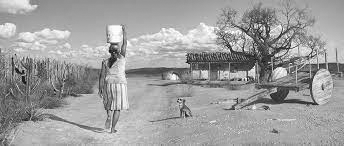
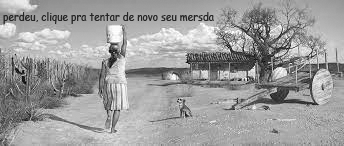
melhorias

Changed region(s): [[0.0, 0.0822, 0.6395, 0.1644]]

diff --git a/script.js b/script.js
@@ -14,13 +14,51 @@ audioRaf.volume = 0.2;
 const backgroundImage = PIXI.Sprite.from("bahiafundo.png");
 const backgroundWin = PIXI.Sprite.from("juliette.png");
 const derrota = PIXI.Sprite.from("baianinhoperdeu.png");
-const derrotaBackground = PIXI.Sprite.from("bahiafundoderrota.png")
+const derrotaBackground = PIXI.Sprite.from("bahiafundoderrota.png");
+const startScreenImg = PIXI.Sprite.from("startscreen.png");
+const botaoStart = PIXI.Sprite.from("botao.png");
+
+const startScreen = new PIXI.Application({
+  width: 1000,
+  height: 400,
+});
+
+document.body.appendChild(startScreen.view);
+startScreen.stage.addChild(startScreenImg);
+startScreenImg.width = 1000;
+startScreenImg.height = 400;
+startScreen.stage.addChild(botaoStart);
+botaoStart.width = 200;
+botaoStart.height = 50;
+botaoStart.x = 100;
+botaoStart.y = 250;
+
+botaoStart.interactive = true;
+botaoStart.buttonMode = true;
+botaoStart.on('pointerdown', playGame);
 
 const app = new PIXI.Application({
   width: 1000,
   height: 400,
 });
-document.body.appendChild(app.view);
+
+function playGame(){
+  const hearts = document.getElementsByClassName("heart");
+  if(hearts.length < 1){
+    window.location.reload();
+    audioRaf.play();
+    return;
+  }
+  document.getElementById("hearts").style.visibility = "visible";
+  document.body.appendChild(app.view);
+  app.x = startScreen.x;
+  app.y = startScreen.y;
+  app.width = startScreen.width;
+  app.height = startScreen.height;
+  document.body.removeChild(startScreen.view);
+  audioRaf.play();
+  app.ticker.add(MainGame);
+}
 
 backgroundImage.width = 1000;
 backgroundImage.height = 400;
@@ -49,7 +87,7 @@ app.stage.addChild(kraken);
 
 kraken.width = 120;
 kraken.height = 120;
-const krakenSpeed = 3;
+let krakenSpeed = 3;
 kraken.x = app.view.width - kraken.width;
 kraken.y = app.view.height - kraken.height;
 kraken.isMoving = "left";
@@ -62,17 +100,15 @@ const MainGame = () => {
       baianinho.x += 5;
     }
     baianinho.moving = "right";
-    audioRaf.play();
   }
 
   if (left.isDown) {
-    if(baianinho.x < 0){
-      baianinho.x = app.view.width + baianinho.width;
+    if(baianinho.x + baianinho.width < 0){
+      baianinho.x = app.view.width;
     }else{
       baianinho.x -= 5;
     }
     baianinho.moving = "left";
-    audioRaf.play();
   }
 
   if (up.isDown && !baianinho.isJumping && !baianinho.isFalling) {
@@ -146,6 +182,8 @@ const MainGame = () => {
         derrota.y = 200;
         app.stage.removeChild(baianinho);
         app.ticker.remove(MainGame);
+
+        app.stage.addChild(botaoStart);
         audioRaf.pause()
         stopGame.play()
       }
@@ -168,6 +206,7 @@ const MainGame = () => {
     power.style.width = "0%";
     bar.style.width = "100%";
     document.getElementById("podertexto").innerText = "PARABENS JOAO VC VENCEU";
+    document.getElementById("hearts").style.visibility = "hidden";
 
     const winnerbraga = PIXI.Sprite.from("bragavitoria.png");
     app.stage.addChild(backgroundWin);
@@ -191,13 +230,17 @@ const MainGame = () => {
   const progress = parseInt(power.style.width.replace("%", ""));
   if(gota == null){
     gota = gerarGota();
-    if(progress > 50){
+    if(progress > 75) {
+      gota.ySpeed = 6;
+      krakenSpeed = 6
+    } 
+    else if(progress > 50) {
       gota.ySpeed = 4;
+      krakenSpeed = 4;
     }
+    
   }
 };
-
-app.ticker.add(MainGame);
 
 function isCollided(object1, object2) {
   const bounds1 = object1.getBounds();

diff --git a/index.html b/index.html
@@ -19,13 +19,16 @@
             
         </div>
     </div>
+
+    </div>
     <script src="keyboard.js"></script>
     <script src="pixi.js"></script>
+    <script src="https://cdn.jsdelivr.net/npm/pixi-layers@0.3.1/dist/pixi-layers.min.js"></script>
     <script src="script.js"></script>
     <script src="https://cdn.jsdelivr.net/npm/bootstrap@5.2.0/dist/js/bootstrap.bundle.min.js" integrity="sha384-A3rJD856KowSb7dwlZdYEkO39Gagi7vIsF0jrRAoQmDKKtQBHUuLZ9AsSv4jD4Xa" crossorigin="anonymous"></script>
 
 
-    <div class="heart-container" style="gap: 20px; display: flex; color: red; font-size: 4rem; ">
+    <div id="hearts" class="heart-container" style="gap: 20px; display: flex; color: red; font-size: 4rem; position: fixed; visibility: hidden;">
         <div class="heart">♥ </div>
         <div class="heart">♥ </div>
         <div class="heart">♥ </div>
